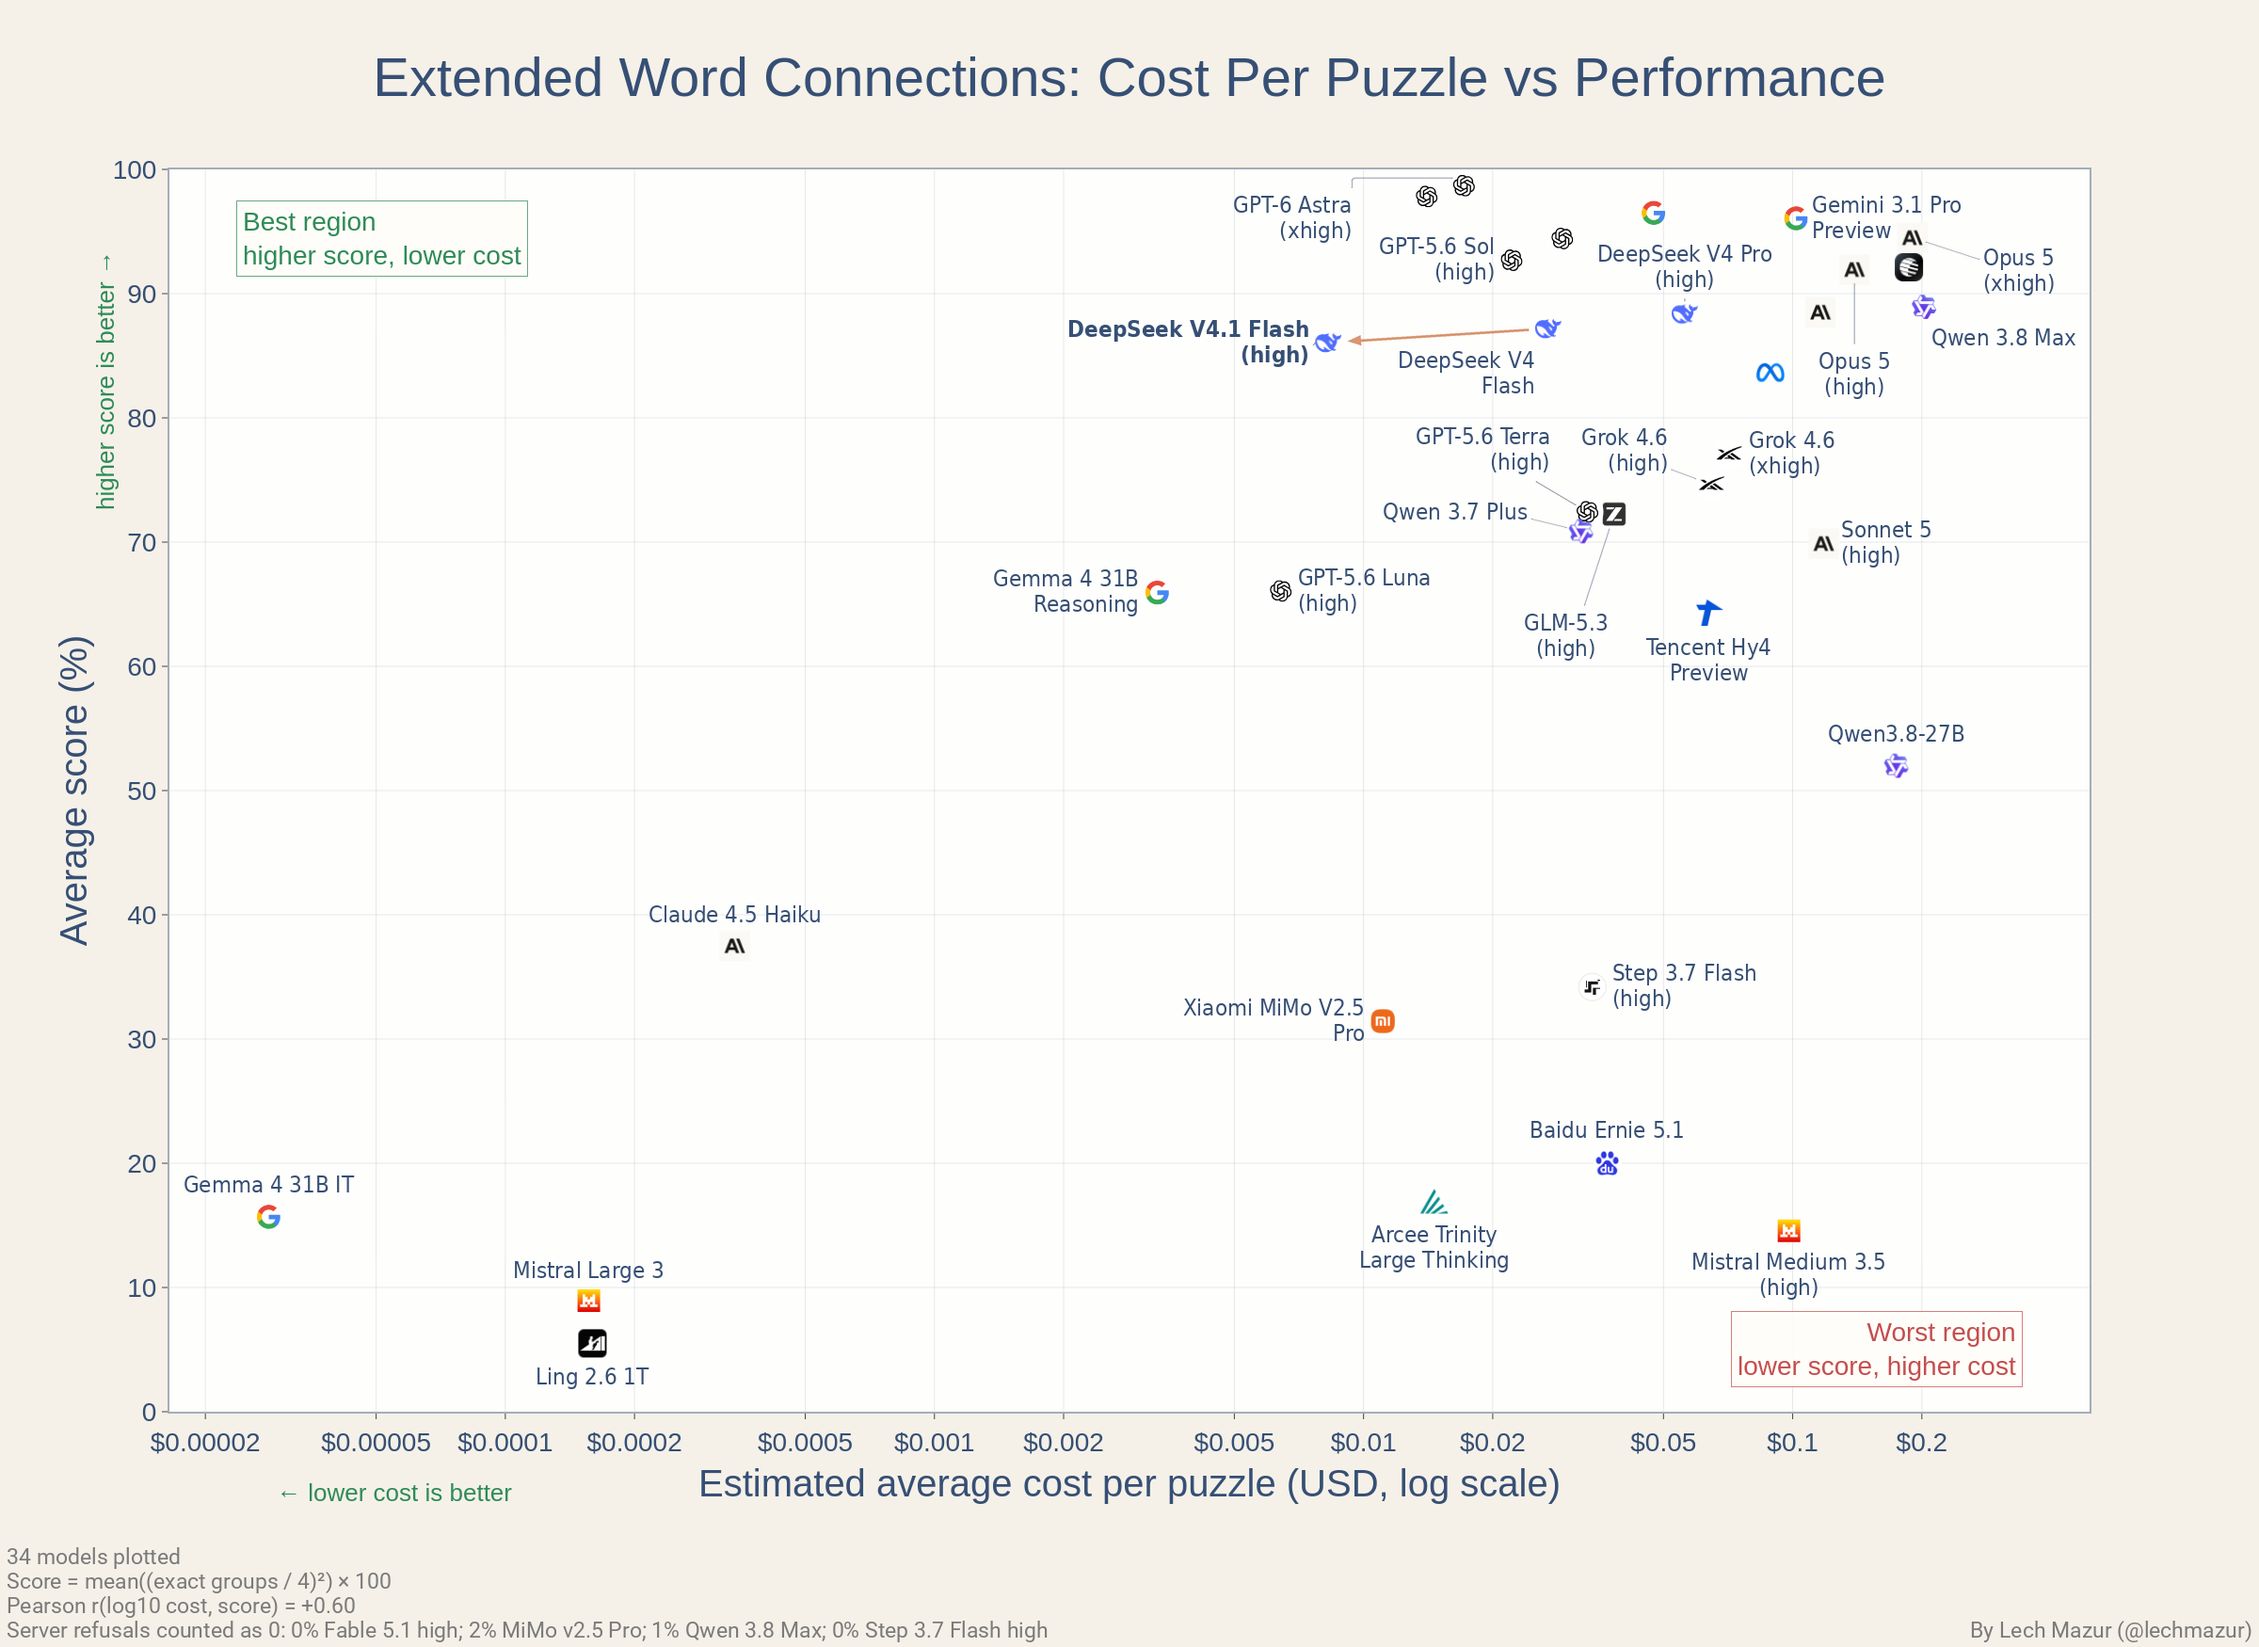
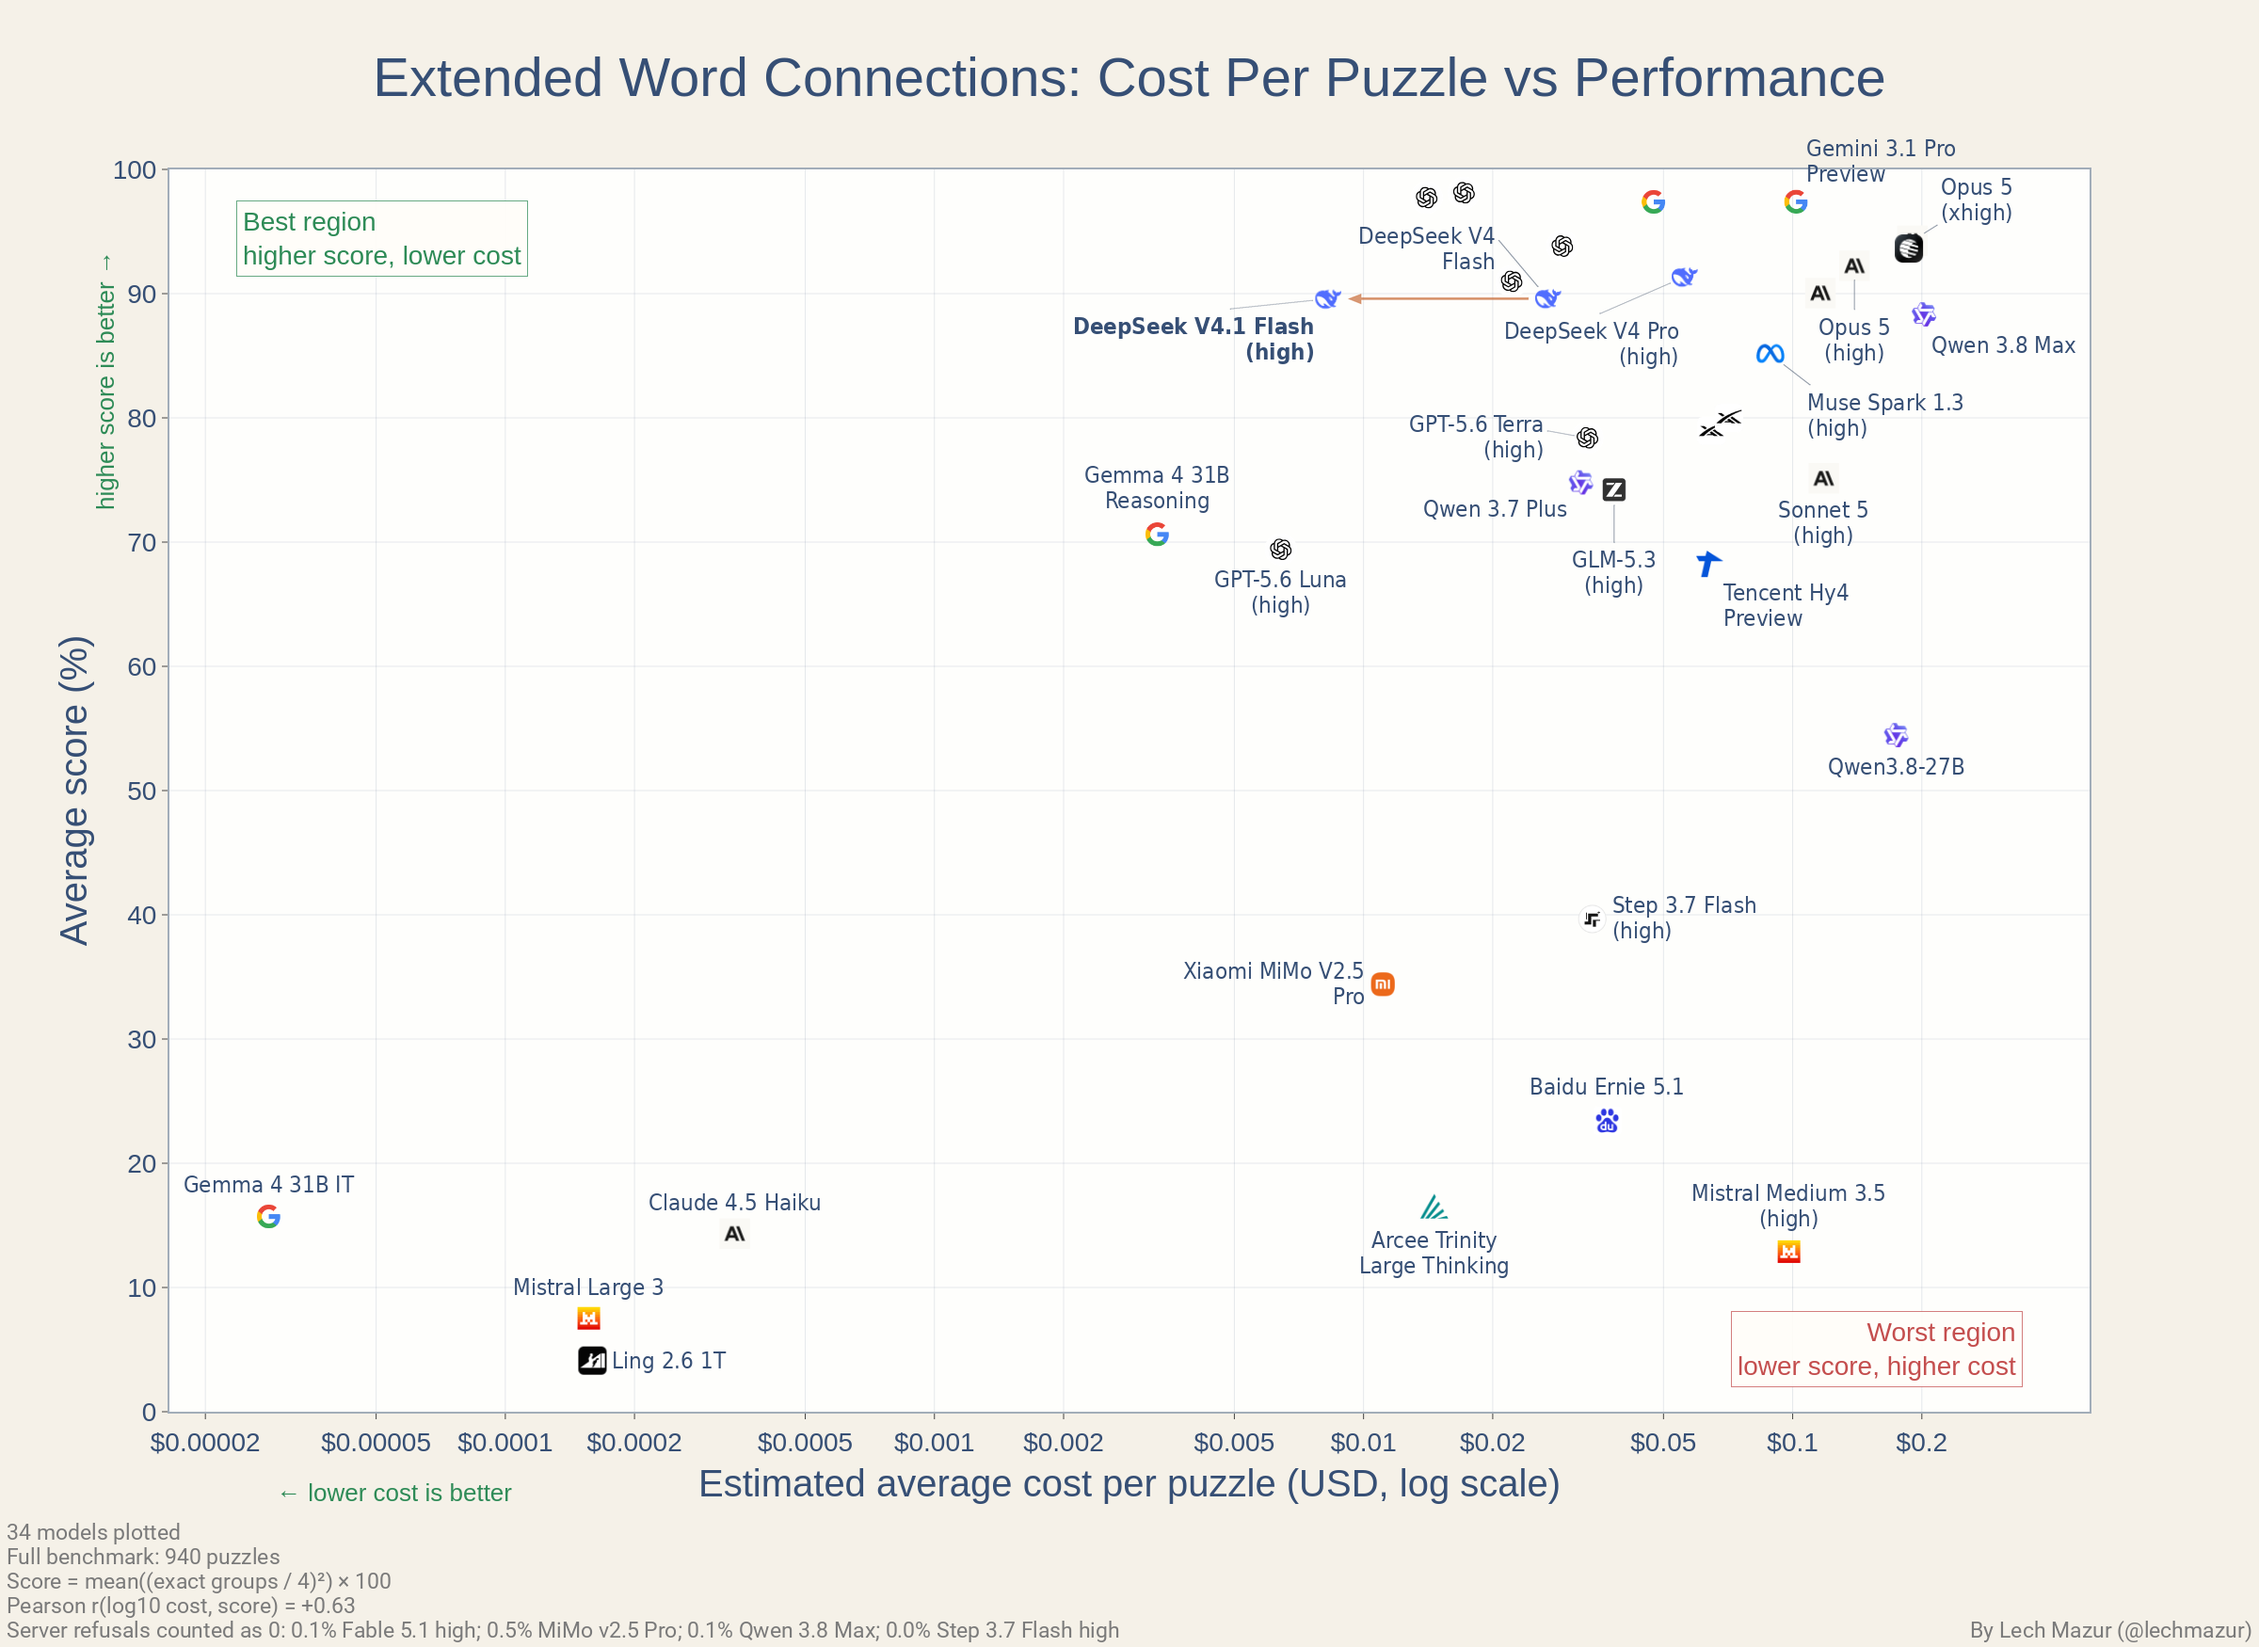
Publish full-benchmark cost scatter correction
Sync the corrected full-940 cost scatter and its README description from extended_connections commit 41d5dfa. Preserve the existing cost estimates and show both DeepSeek progress-arrow labels.

diff --git a/README.md b/README.md
@@ -170,9 +170,9 @@ same shared 601-puzzle comparison set.
 
 ### Cost vs. performance
 
-This chart compares estimated average cost per puzzle with the newest-100
-puzzle score for current full-coverage models. Costs use recorded token
-usage and comparable registered display/list prices, not billed totals.
+This chart compares estimated average cost per puzzle with the full
+940-puzzle benchmark score for current full-coverage models. Costs use recorded
+token usage and comparable registered display/list prices, not billed totals.
 Time-varying prices are averaged over their full pricing cycle.
 
 ![Cost vs. performance](images/model_cost_vs_performance_highlighted.png)
